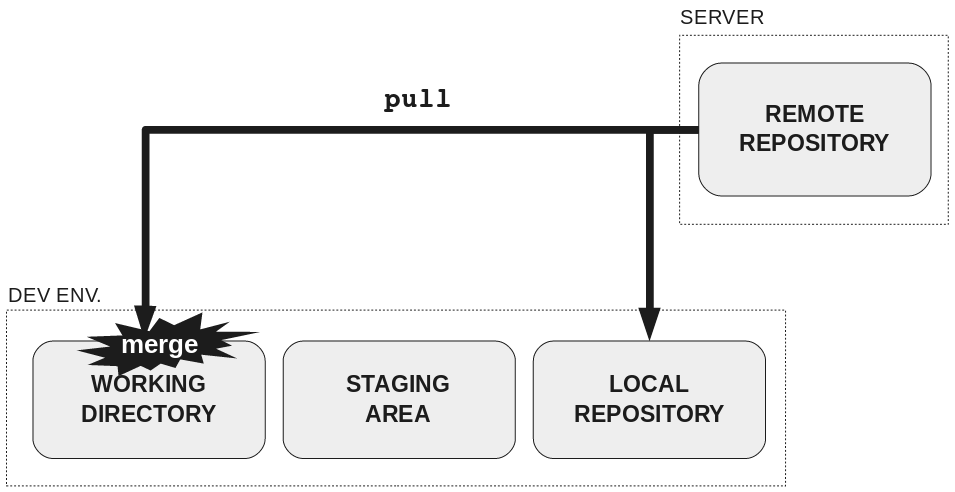
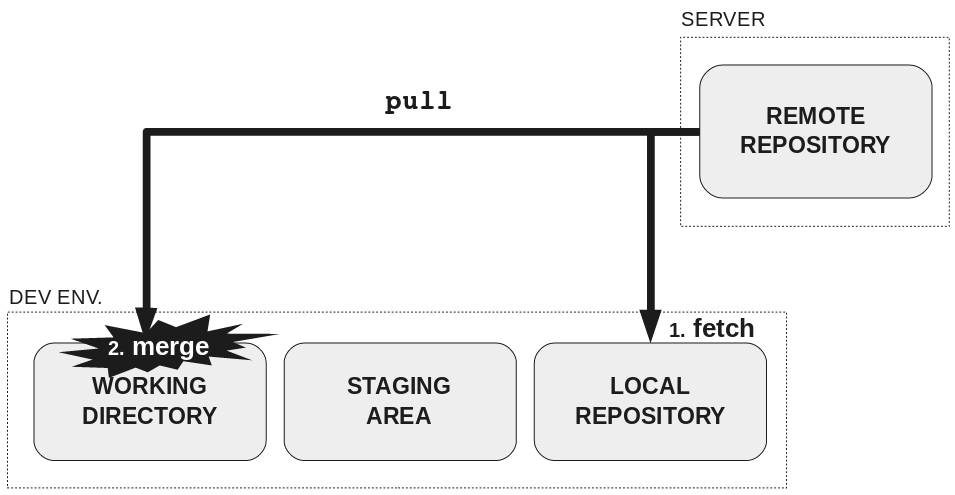
Adding pull --rebase diagram

diff --git a/git/README.md b/git/README.md
@@ -33,6 +33,8 @@ NOTE: ``` -- ``` means _no more options; the following is a file_
 
 * ```git pull --rebase```: any local changes are replayed
 
+![pull --rebase](pull-rebase.png)
+
 ![stash-save](stash-save.png)
 
 ![stash-apply](stash-apply.png)
